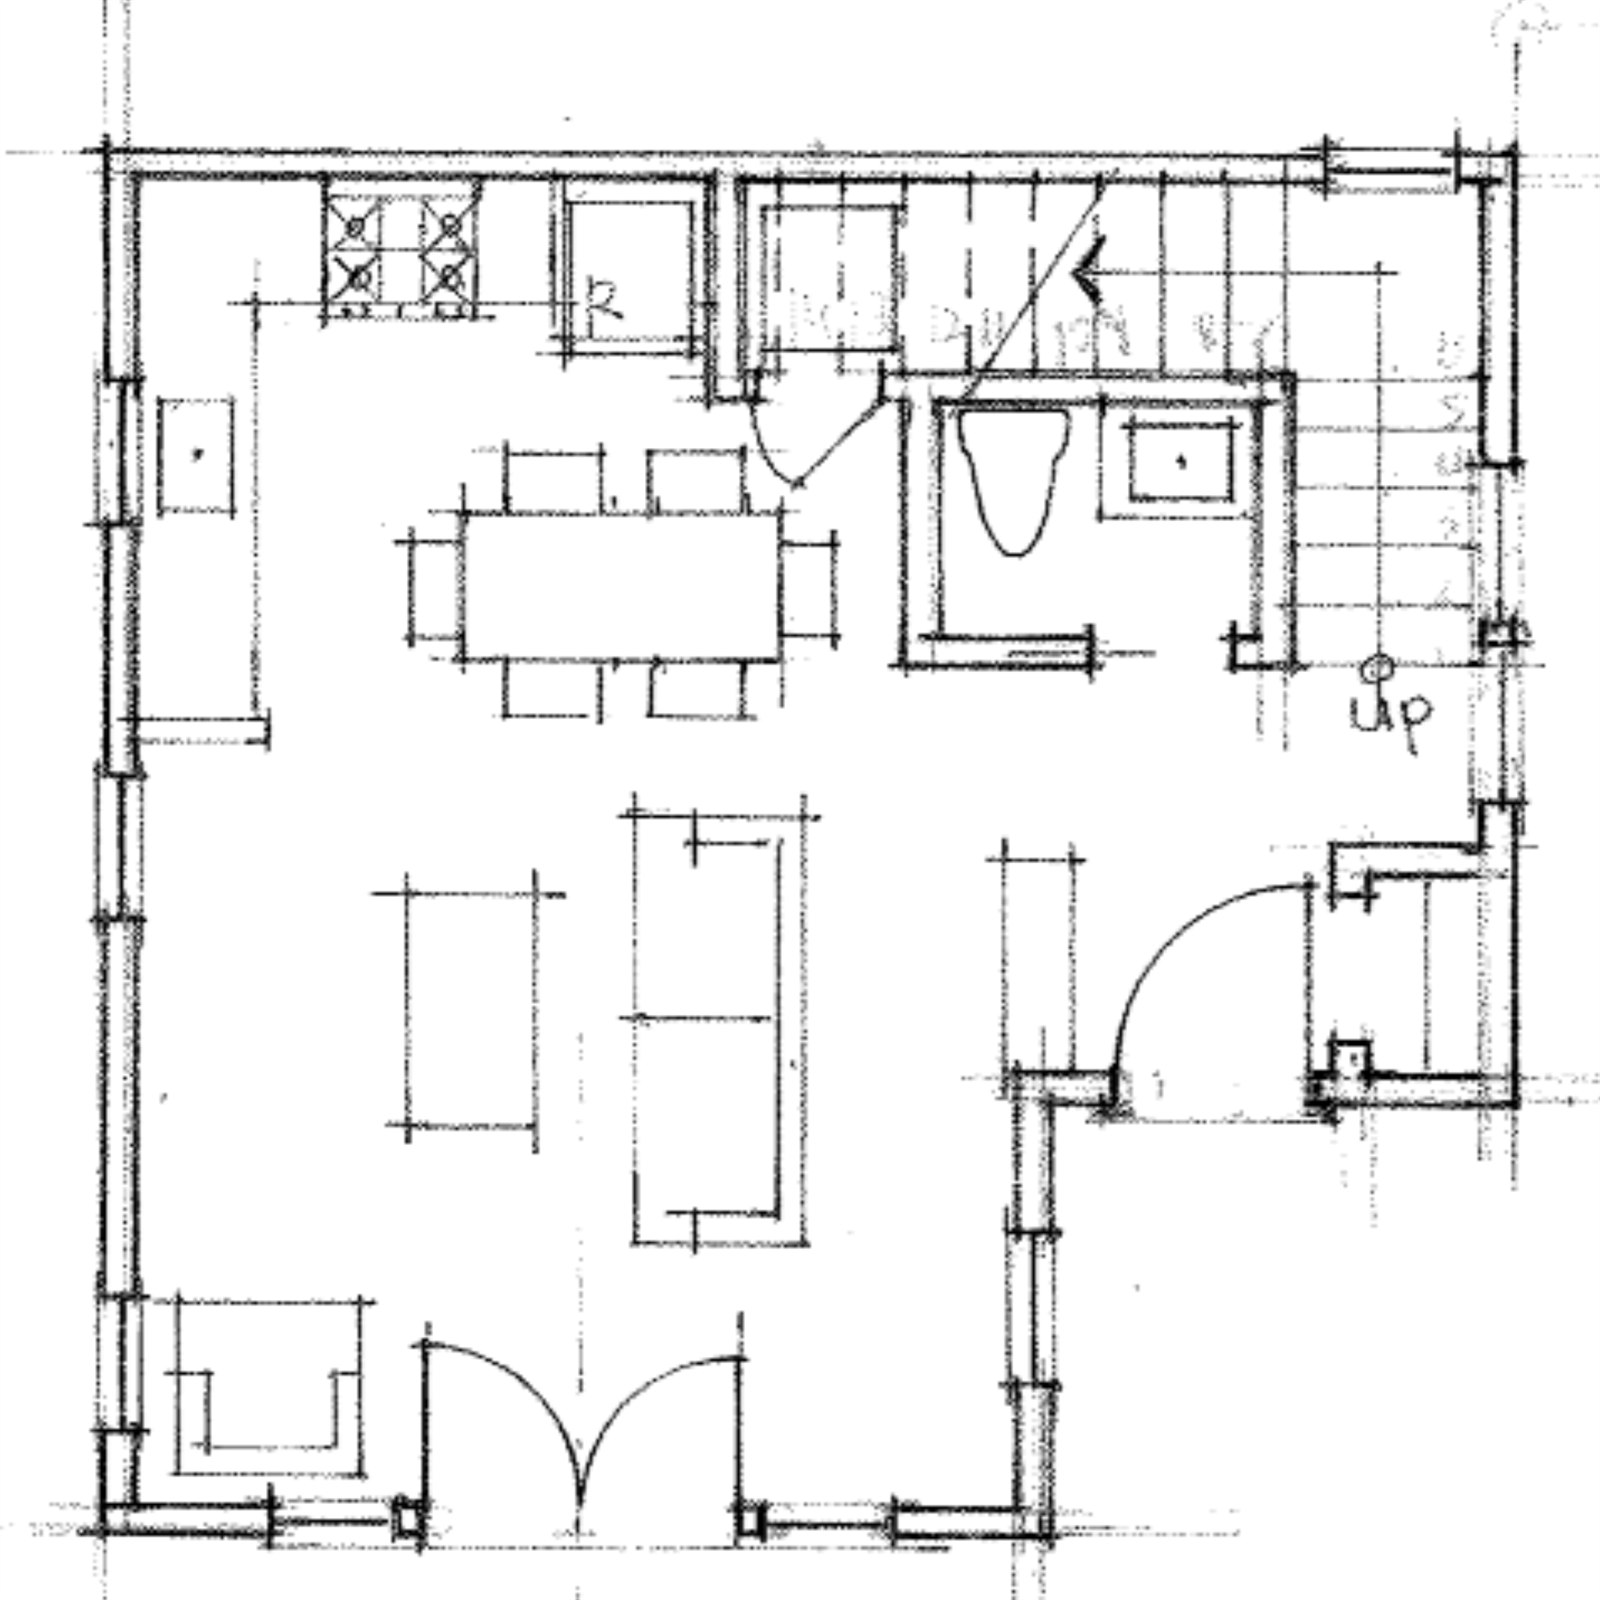
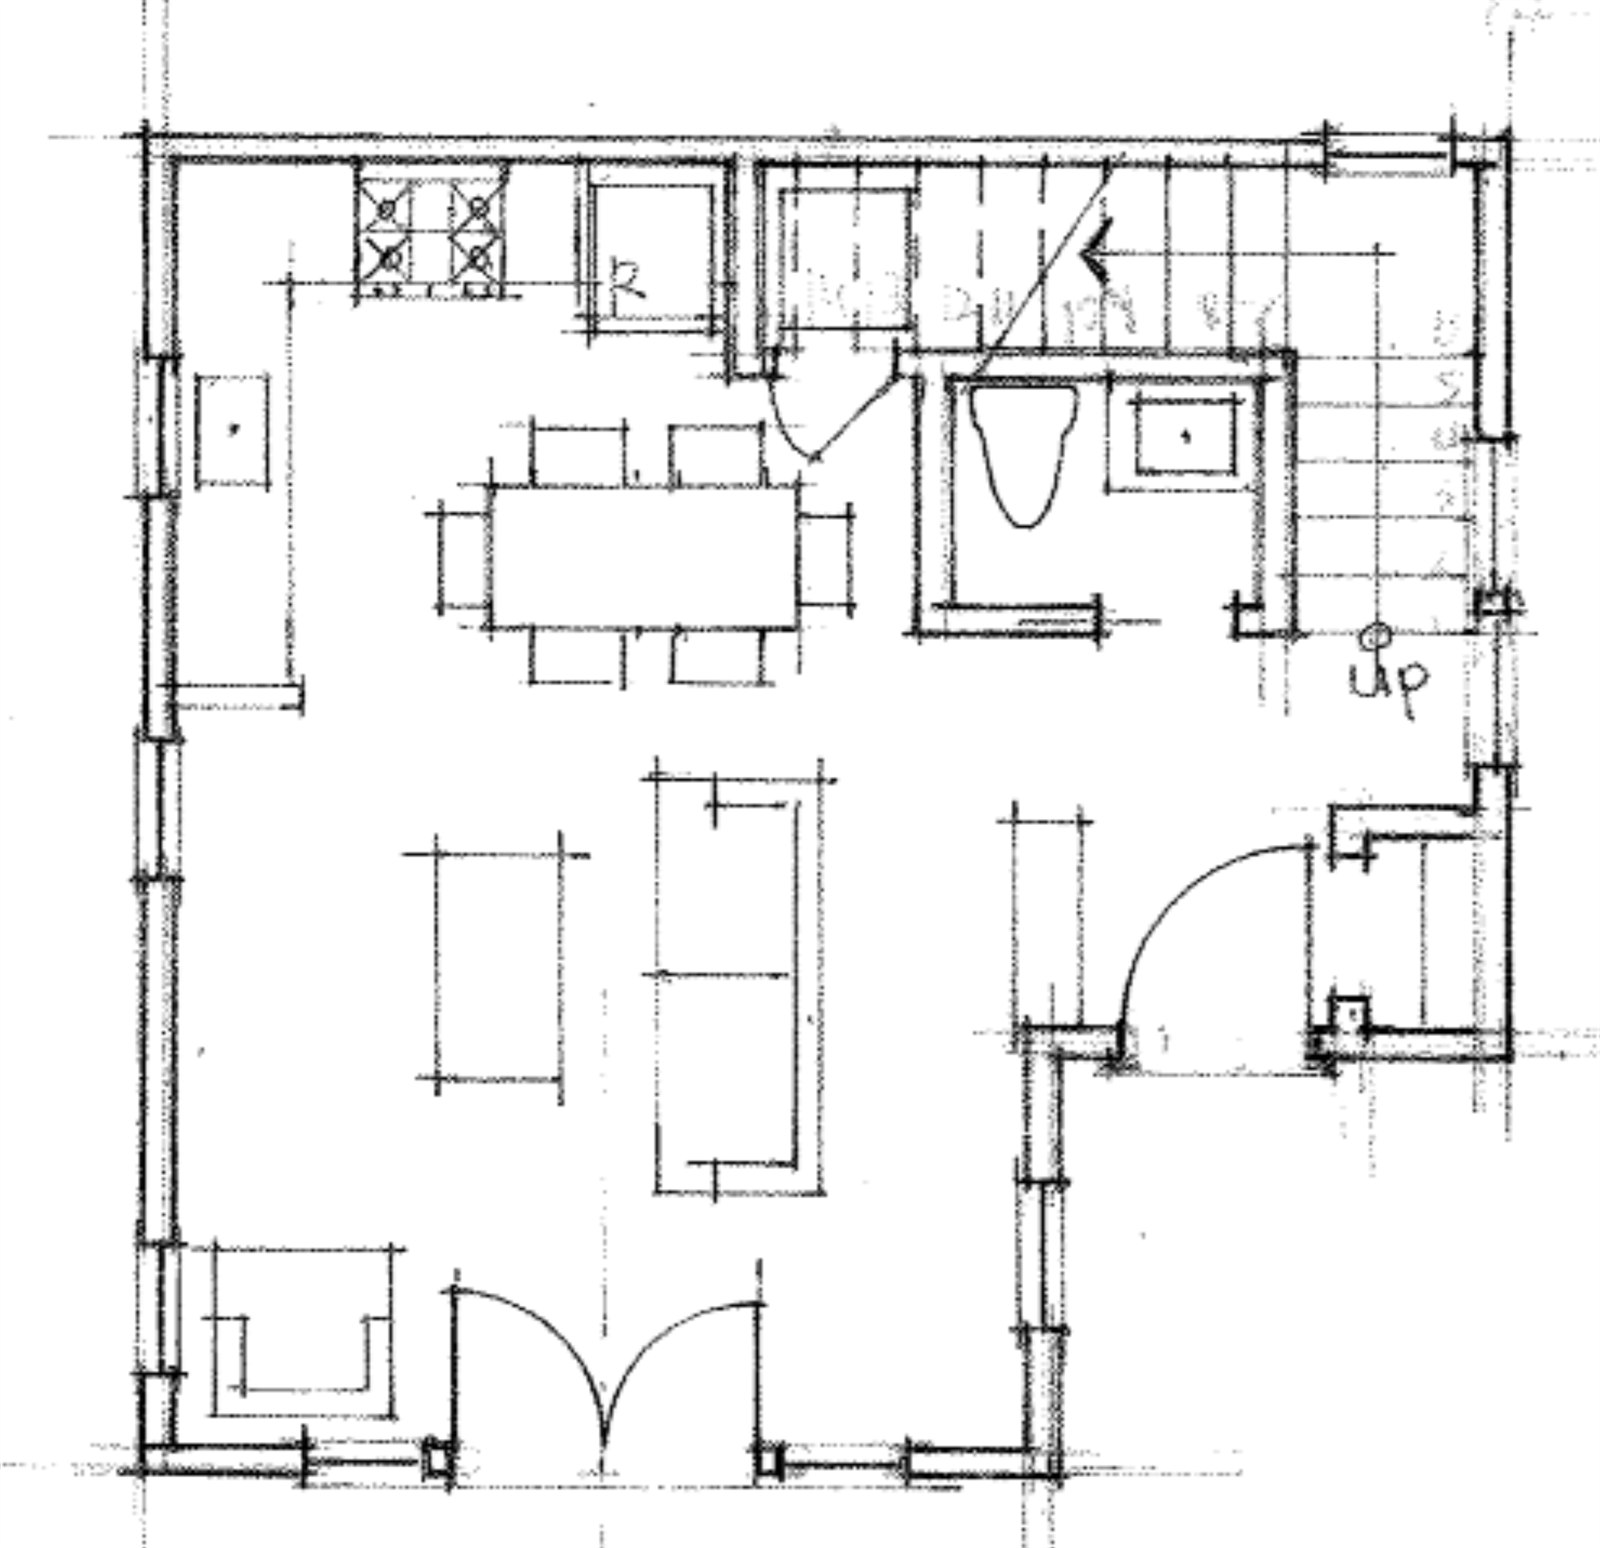
Burlingame ADU: sketch plans aligned, labelled and smaller (swipe carousel on mobile), option sketches stacked on mobile, interior elevations one line per slide at one scale with main house baths last, strip centred on the front door

Changed region(s): [[0.0, 0.0, 1.0, 1.0], [0.7188, 0.5581, 0.7812, 0.5891]]

diff --git a/js/projects.js b/js/projects.js
@@ -39,7 +39,7 @@
                                                      alignBottom: true sits shorter slides on the
                                                      bottom edge instead of the top
               An image can open a carousel level on click (web): opens: { carousel: "x", level: 0 }
-              Carousels and single images can also be mobileOnly: true.
+              Carousels and single images can also be mobileOnly: true; groups can be hideOnMobile: true.
               stack, row and aside can take gap: "10px" (stack: sit close instead of touching).
               row can take maxWidth: "930px" (desktop) so a small source is never blown up.
               row can take mobileRow: true to stay side by side on phones.
@@ -64,7 +64,7 @@
 */
 
 // Bump whenever an image file is replaced under the same name, so browsers fetch the new one
-const IMAGE_VERSION = 27;
+const IMAGE_VERSION = 28;
 
 const CATEGORIES = [
   { id: "academic", label: "Academic", prefix: "A" },
@@ -549,7 +549,7 @@ const PROJECTS = [
     location: "Burlingame, CA",
     type: "Accessory Dwelling Unit",
     status: "Under Construction",
-    strip: "assets/img/projects/burlingame-adu/strip.jpg", // pre-cropped from the chosen scheme's sketch (option 1), on the dormer
+    strip: "assets/img/projects/burlingame-adu/strip.jpg", // pre-cropped from the chosen scheme's sketch (option 1), on the front door
     stripFocus: "50% 50%",
     stripMono: true,
     summary: [
@@ -561,8 +561,7 @@ const PROJECTS = [
       // sketches: cropped to the drawing (the handwritten label carried the address)
       {
         layout: "carousel",
-        list: true,
-        mobileSwipe: true,
+        list: true, // mobile: stacked (no swipe) so each sketch shows at full width
         alignBottom: true,
         arrowsOut: true,
         images: [
@@ -572,13 +571,23 @@ const PROJECTS = [
         ],
       },
       {
-        layout: "row", // the two floors from the sketch plan, side by side
-        mobileRow: true,
+        layout: "row", // the two floors from the sketch plan, same crop window so they line up
+        hideOnMobile: true,
         gap: "24px",
-        maxWidth: "760px",
+        maxWidth: "530px",
         images: [
-          { src: "assets/img/projects/burlingame-adu/sketch-plan-1.jpg", ratio: 1 },
-          { src: "assets/img/projects/burlingame-adu/sketch-plan-2.jpg", ratio: 1.0343 },
+          { src: "assets/img/projects/burlingame-adu/sketch-plan-1.jpg", ratio: 1.0336, caption: "Ground Floor", captionInset: "8.4%" },
+          { src: "assets/img/projects/burlingame-adu/sketch-plan-2.jpg", ratio: 1.0336, caption: "Second Floor", captionInset: "8.4%" },
+        ],
+      },
+      {
+        layout: "carousel", // mobile: the same two plans, one at a time and larger
+        mobileOnly: true,
+        mobileSwipe: true,
+        list: true,
+        images: [
+          { src: "assets/img/projects/burlingame-adu/sketch-plan-1.jpg", ratio: 1.0336, caption: "Ground Floor", captionInset: "8.4%", tab: "Ground Floor" },
+          { src: "assets/img/projects/burlingame-adu/sketch-plan-2.jpg", ratio: 1.0336, caption: "Second Floor", captionInset: "8.4%", tab: "Second Floor" },
         ],
       },
       // drawings: title block and notes cropped off; address painted out of the east elevation
@@ -598,10 +607,14 @@ const PROJECTS = [
         alignBottom: true,
         arrowsOut: true,
         images: [
-          { src: "assets/img/projects/burlingame-adu/interior-1.jpg", ratio: 1.2456, tab: "Main House Baths" },
-          { src: "assets/img/projects/burlingame-adu/interior-2.jpg", ratio: 1.1963, tab: "Kitchen / Living" },
-          { src: "assets/img/projects/burlingame-adu/interior-3.jpg", ratio: 1.4753, tab: "Bath / Bedroom" },
-          { src: "assets/img/projects/burlingame-adu/interior-4.jpg", ratio: 1.1679, tab: "Stair / Powder" },
+          // one drawing line per slide, all at the same scale (narrower lines padded to the widest)
+          { src: "assets/img/projects/burlingame-adu/int-kitchen.jpg", ratio: 1.7947, tab: "Kitchen / Living" },
+          { src: "assets/img/projects/burlingame-adu/int-ba.jpg", ratio: 3.2888, tab: "Bath" },
+          { src: "assets/img/projects/burlingame-adu/int-bedroom.jpg", ratio: 3.1904, tab: "Bedroom" },
+          { src: "assets/img/projects/burlingame-adu/int-stair.jpg", ratio: 2.502, tab: "Stair" },
+          { src: "assets/img/projects/burlingame-adu/int-powder.jpg", ratio: 3.5477, tab: "Powder Room" },
+          { src: "assets/img/projects/burlingame-adu/int-ba1.jpg", ratio: 3.3898, tab: "Main House BA#1" },
+          { src: "assets/img/projects/burlingame-adu/int-ba2.jpg", ratio: 3.467, tab: "Main House BA#2" },
         ],
       },
     ],

diff --git a/project.html b/project.html
@@ -29,7 +29,7 @@
   <link rel="icon" href="assets/img/favicon.svg" type="image/svg+xml">
   <link rel="icon" href="assets/img/favicon-32.png" sizes="32x32" type="image/png">
   <link rel="apple-touch-icon" href="assets/img/apple-touch-icon.png">
-  <link rel="stylesheet" href="css/style.css?v=77">
+  <link rel="stylesheet" href="css/style.css?v=78">
 </head>
 <body data-page="project">
 
@@ -52,7 +52,7 @@
     <article class="project" id="project"></article>
   </main>
 
-  <script src="js/projects.js?v=77"></script>
-  <script src="js/main.js?v=77"></script>
+  <script src="js/projects.js?v=78"></script>
+  <script src="js/main.js?v=78"></script>
 </body>
 </html>

diff --git a/index.html b/index.html
@@ -34,7 +34,7 @@
   <link rel="preconnect" href="https://fonts.googleapis.com">
   <link rel="preconnect" href="https://fonts.gstatic.com" crossorigin>
   <link rel="stylesheet" href="https://fonts.googleapis.com/css2?family=Inter:wght@400;700&display=swap">
-  <link rel="stylesheet" href="css/style.css?v=77">
+  <link rel="stylesheet" href="css/style.css?v=78">
 </head>
 <body data-page="index">
 
@@ -161,7 +161,7 @@
     </div>
   </main>
 
-  <script src="js/projects.js?v=77"></script>
-  <script src="js/main.js?v=77"></script>
+  <script src="js/projects.js?v=78"></script>
+  <script src="js/main.js?v=78"></script>
 </body>
 </html>

diff --git a/js/main.js b/js/main.js
@@ -386,7 +386,7 @@
           .join(";");
         const style = vars ? ` style="${vars}"` : "";
         return `
-      <figure class="gallery-${block.layout}${block.reverse ? " is-reverse" : ""}${block.mobileRow ? " is-mobile-row" : ""}"${style}>
+      <figure class="gallery-${block.layout}${block.reverse ? " is-reverse" : ""}${block.mobileRow ? " is-mobile-row" : ""}${block.hideOnMobile ? " hide-mobile" : ""}"${style}>
         <div class="gallery-group">${groupHTML(block)}</div>
         ${caption(block.caption)}${list}
       </figure>`;
